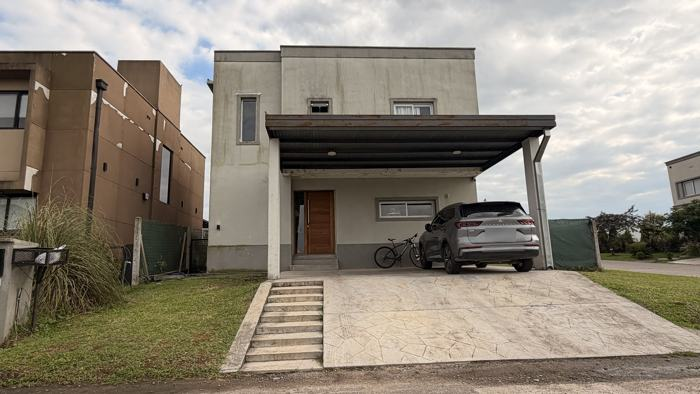
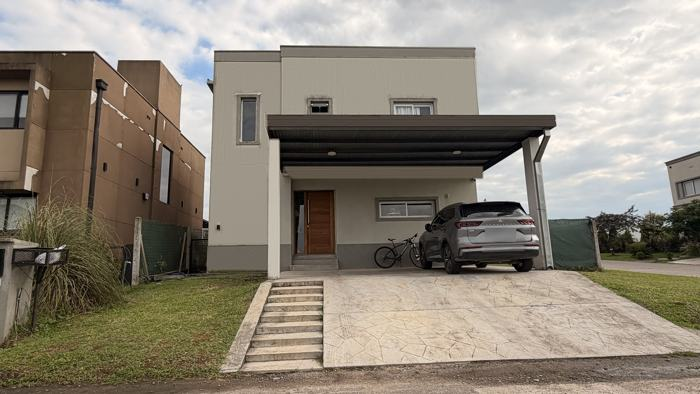
Use brick house photo in hero and retouch weathered facades in Pinar 2 gallery
Claude-Session: https://claude.ai/code/session_01XcyHp2rkUvFcCsAv4vXxuo

diff --git a/index.html b/index.html
@@ -176,91 +176,17 @@
           </ul>
         </div>
 
-        <!--
-          IMAGEN DEL HERO
-          Para usar una foto real o un render, reemplazá el <svg> de abajo por:
-          <img src="assets/img/proyecto-hero.jpg" alt="Construcción de vivienda llave en mano en Yerba Buena, Tucumán" width="1120" height="920" fetchpriority="high">
-        -->
+        <!-- Foto del inicio: para cambiarla, reemplazá los archivos o las rutas del <img> -->
         <figure class="hero__visual">
-          <svg viewBox="0 0 560 460" role="img" aria-label="Casa moderna construida en Tucumán, con los cerros de fondo">
-            <defs>
-              <linearGradient id="cielo" x1="0" y1="0" x2="0" y2="1">
-                <stop offset="0" stop-color="#bfe6fa"/>
-                <stop offset="1" stop-color="#f3fafe"/>
-              </linearGradient>
-              <linearGradient id="vidrio" x1="0" y1="0" x2="1" y2="1">
-                <stop offset="0" stop-color="#8fd3f7"/>
-                <stop offset="1" stop-color="#2ba3e0"/>
-              </linearGradient>
-              <pattern id="grilla" width="28" height="28" patternUnits="userSpaceOnUse">
-                <path d="M28 0H0V28" fill="none" stroke="#fff" stroke-opacity=".55" stroke-width="1"/>
-              </pattern>
-            </defs>
-
-            <rect width="560" height="460" rx="28" fill="url(#cielo)"/>
-            <rect width="560" height="460" rx="28" fill="url(#grilla)"/>
-
-            <circle class="build build--sol" cx="452" cy="92" r="34" fill="#f8c555"/>
-
-            <!-- Cerros -->
-            <path d="M0 300 90 214l62 48 84-96 96 104 70-58 158 122v126H0z" fill="#9ed8f5"/>
-            <path d="M0 338 120 262l88 62 104-70 110 66 138-52v192H0z" fill="#6dc0ec"/>
-
-            <!-- Terreno -->
-            <path d="M0 372h560v60a28 28 0 0 1-28 28H28a28 28 0 0 1-28-28z" fill="#0e2a3f"/>
-            <rect y="366" width="560" height="10" fill="#0a77b8"/>
-
-            <g class="build build--arbol">
-            <!-- Árbol -->
-            <rect x="92" y="296" width="8" height="72" rx="3" fill="#0e2a3f"/>
-            <circle cx="96" cy="276" r="36" fill="#0a77b8"/>
-            <circle cx="74" cy="296" r="22" fill="#0a77b8"/>
-            <circle cx="120" cy="298" r="20" fill="#0a77b8"/>
-            </g>
-
-            <g class="build build--bajo">
-            <!-- Casa: volumen bajo -->
-            <rect x="150" y="248" width="300" height="120" fill="#fff"/>
-            <rect x="150" y="240" width="300" height="10" fill="#0e2a3f"/>
-            </g>
-
-            <g class="build build--alto">
-            <!-- Casa: volumen alto -->
-            <rect x="250" y="150" width="230" height="100" fill="#0a77b8"/>
-            <rect x="242" y="142" width="246" height="10" fill="#0e2a3f"/>
-            <rect x="274" y="174" width="120" height="54" rx="3" fill="url(#vidrio)"/>
-            <path d="M334 174v54M274 201h120" stroke="#fff" stroke-width="3"/>
-            <rect x="416" y="174" width="42" height="54" rx="3" fill="url(#vidrio)"/>
-            </g>
-
-            <g class="build build--pb">
-            <!-- Planta baja -->
-            <rect x="172" y="272" width="118" height="96" rx="3" fill="url(#vidrio)"/>
-            <path d="M231 272v96M172 320h118" stroke="#fff" stroke-width="3"/>
-            <rect x="318" y="282" width="46" height="86" rx="3" fill="#d79a5b"/>
-            <circle cx="355" cy="328" r="3" fill="#0e2a3f"/>
-            <rect x="386" y="290" width="46" height="40" rx="3" fill="url(#vidrio)"/>
-            <rect x="306" y="366" width="70" height="6" rx="2" fill="#bfe6fa"/>
-            </g>
-
-            <g class="build build--cotas">
-            <!-- Cotas de plano -->
-            <g stroke="#0e2a3f" stroke-width="1.5" fill="none">
-              <path d="M150 404h300" stroke-dasharray="5 5"/>
-              <path d="M150 396v16M450 396v16"/>
-            </g>
-            <rect x="268" y="392" width="64" height="24" rx="12" fill="#fff"/>
-            <text x="300" y="409" text-anchor="middle" font-family="ui-monospace, Menlo, monospace" font-size="13" font-weight="600" fill="#0e2a3f">12,00 m</text>
-            <g stroke="#0e2a3f" stroke-width="1.5" fill="none">
-              <path d="M510 142v226" stroke-dasharray="5 5"/>
-              <path d="M502 142h16M502 368h16"/>
-            </g>
-            </g>
-          </svg>
+          <img src="assets/img/pinar-2/pinar-2-tafi-viejo-01-1400.jpg"
+               srcset="assets/img/pinar-2/pinar-2-tafi-viejo-01-700.jpg 700w, assets/img/pinar-2/pinar-2-tafi-viejo-01-1400.jpg 1400w"
+               sizes="(min-width: 960px) 560px, 100vw"
+               alt="Casa de dos plantas con frente de ladrillo visto construida por Evolutiva Norte en Tafí Viejo, Tucumán"
+               width="1400" height="788" fetchpriority="high">
 
           <figcaption class="hero__badge">
             <svg viewBox="0 0 24 24" aria-hidden="true"><path d="M12 21s7-6.1 7-11.5A7 7 0 0 0 5 9.5C5 14.9 12 21 12 21Z"/><circle cx="12" cy="9.5" r="2.5"/></svg>
-            <span><strong>Obras en el Gran Tucumán</strong>Yerba Buena · Tafí Viejo · Centro</span>
+            <span><strong>Obra en Pinar 2</strong>Av. Constitución · Tafí Viejo</span>
           </figcaption>
           <p class="hero__chip" aria-hidden="true"><span>Construyendo<br>desde</span><strong>2011</strong></p>
         </figure>

diff --git a/css/styles.css b/css/styles.css
@@ -1353,3 +1353,9 @@ svg:not([role="img"]) {
   .lightbox__prev { left: 1.25rem; }
   .lightbox__next { right: 1.25rem; }
 }
+
+/* Foto del inicio */
+.hero__visual > img { aspect-ratio: 4 / 3; object-fit: cover; object-position: 35% 50%; }
+@media (min-width: 960px) {
+  .hero__visual > img { aspect-ratio: 5 / 4; }
+}
